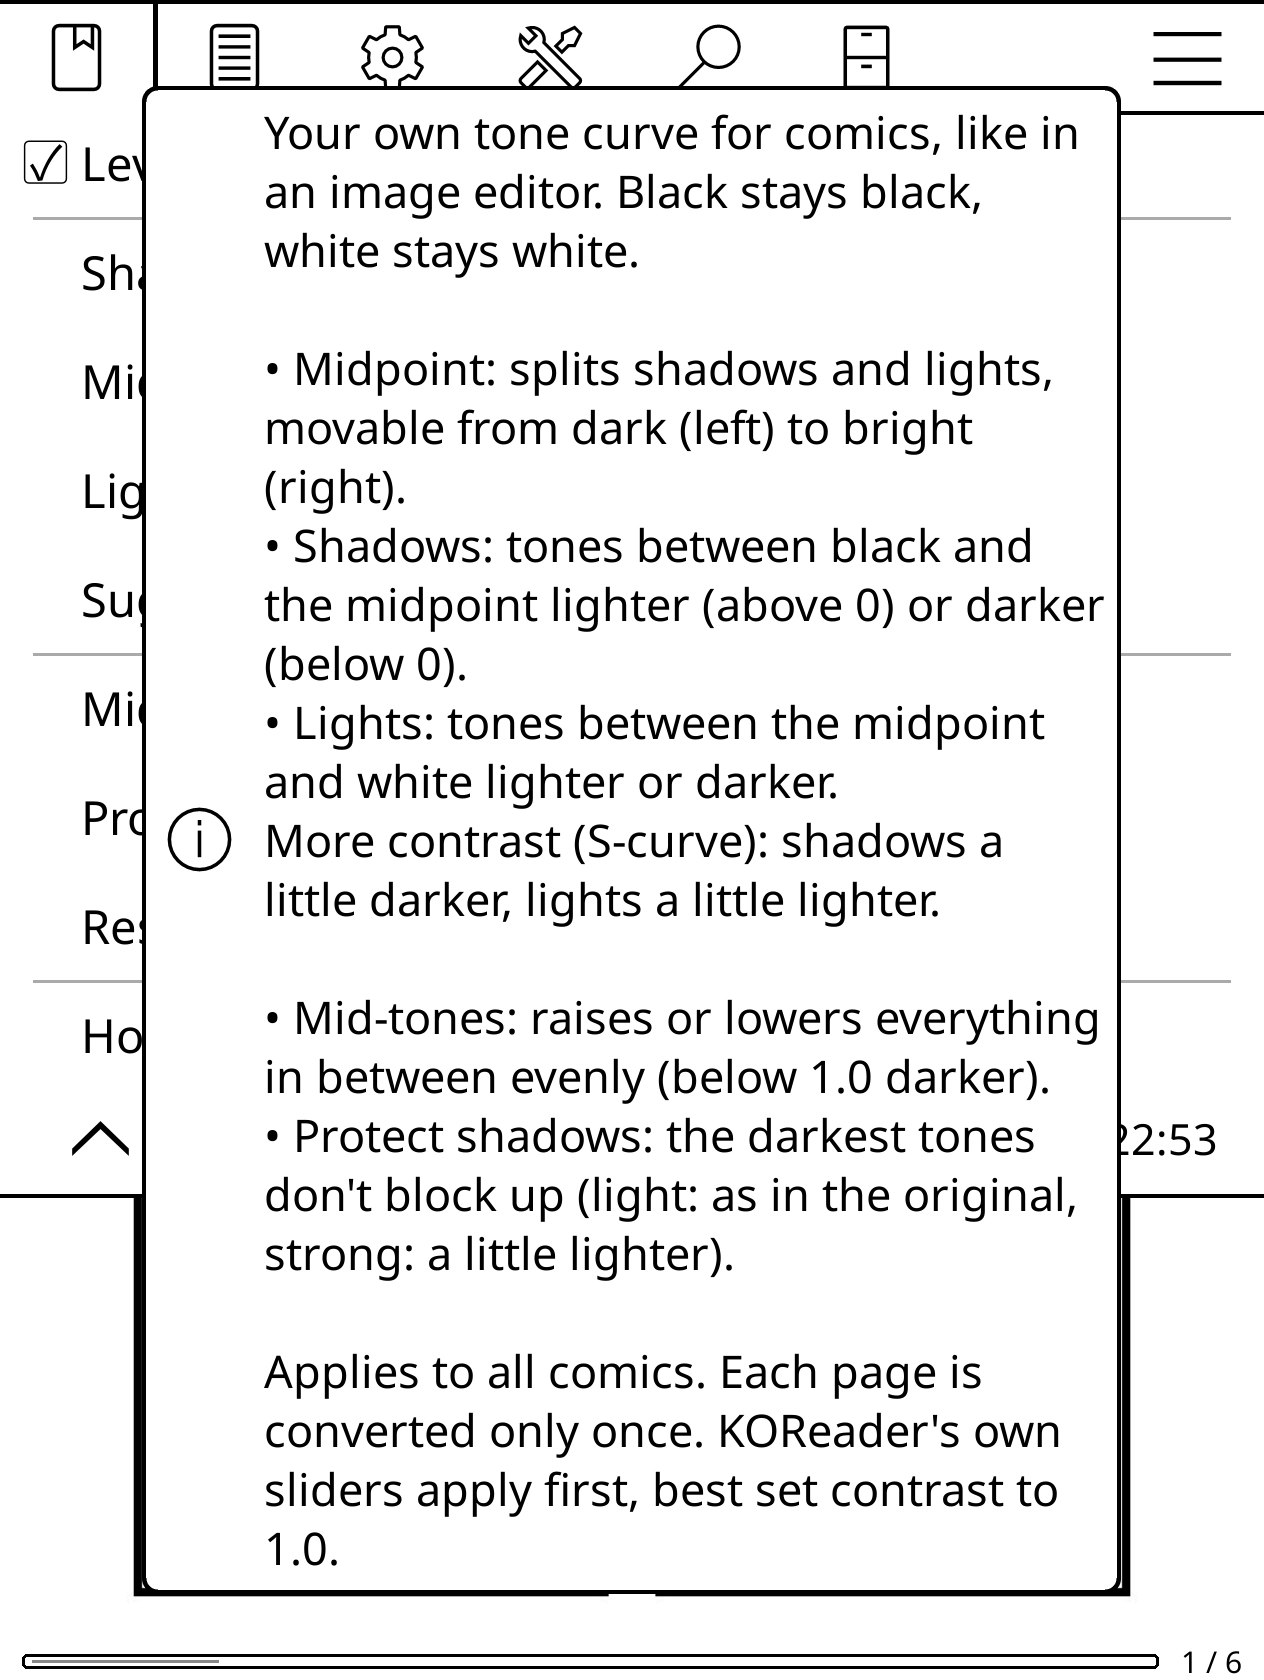
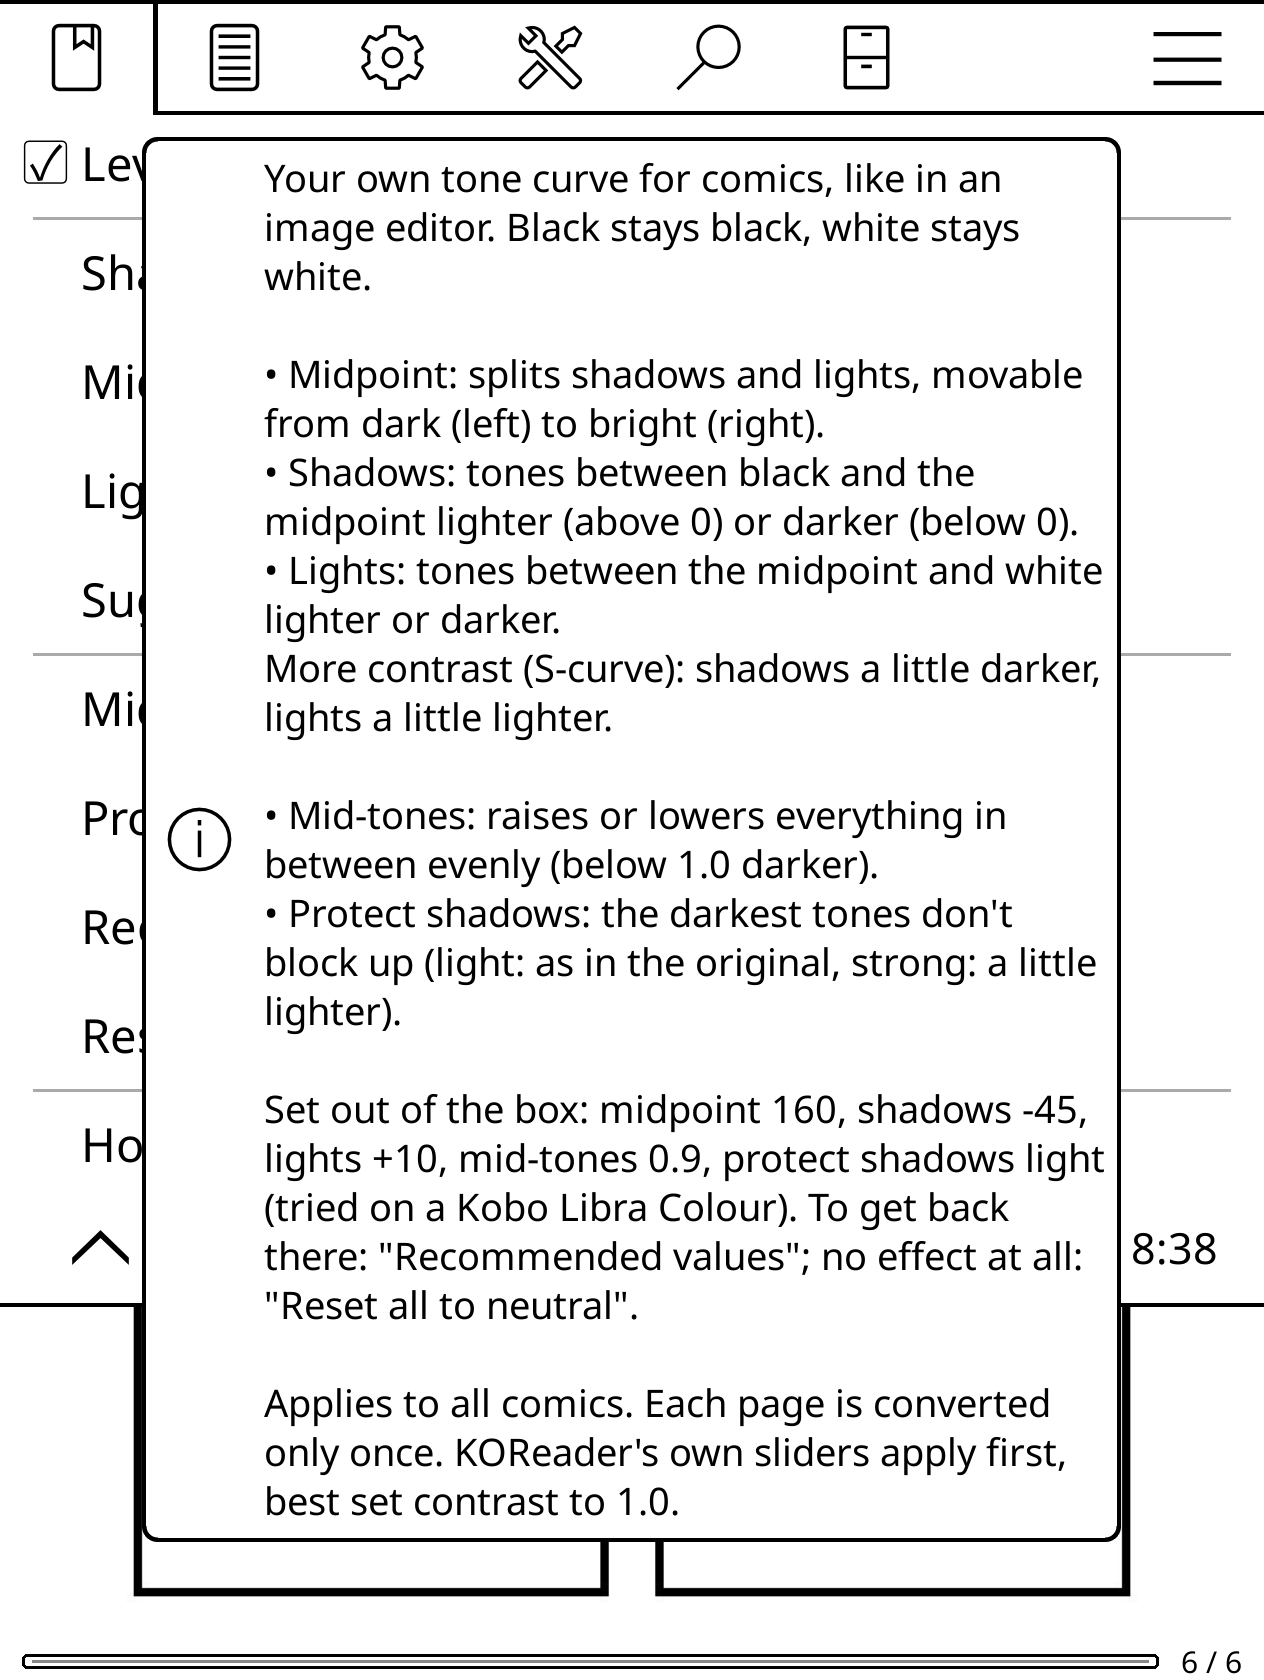
Version 0.3.0: neue Standardwerte und Menüpunkt Empfohlene Werte

diff --git a/README.de.md b/README.de.md
@@ -2,9 +2,6 @@
 
 *English: [README.md](README.md)*
 
-<!-- byline -->
-Ein Plugin von **Akrota und Claude**.
-
 <!-- lang-note -->
 *Funktioniert auf **Deutsch und Englisch**: Menüs und Texte richten sich nach der KOReader-Sprache.*
 
@@ -24,15 +21,20 @@ Ein KOReader-Plugin mit einer eigenen Tonwertkurve für Comics, wie in einer Bil
 <tr><td align="center" valign="top" width="33%"><img src="docs/screenshots/menu.png" width="260" alt="Tonwerte-Menü: Schatten, Mittelpunkt, Lichter, Mitteltöne"><br><sub>Tonwerte-Menü: Schatten, Mittelpunkt, Lichter, Mitteltöne</sub></td><td align="center" valign="top" width="33%"><img src="docs/screenshots/protect-shadows.png" width="260" alt="Schatten schützen: aus, leicht, stark"><br><sub>Schatten schützen: aus, leicht, stark</sub></td><td align="center" valign="top" width="33%"><img src="docs/screenshots/how-it-works.png" width="260" alt="Hilfetext zu Mittelpunkt, Schatten, Lichtern, Mitteltönen"><br><sub>Hilfetext zu Mittelpunkt, Schatten, Lichtern, Mitteltönen</sub></td></tr>
 </table>
 
+## Sofort einsatzbereit
+
+Das Plugin kommt mit Werten, die auf einem Kobo Libra Colour erprobt sind und dem Besitzer gefallen: **Mittelpunkt 160, Schatten -45, Lichter +10, Mitteltöne 0,9, Schatten schützen leicht**. Sie wirken gleich nach der Installation. Bildschirme unterscheiden sich, also nach Geschmack anpassen, oder „Alles auf neutral“ wählen, dann wirkt nichts.
+
 ## Funktionen
 
-- **Mittelpunkt** (30 bis 225, Standard 128): trennt Schatten und Lichter. Der Mittelpunkt selbst behält seine Helligkeit.
+- **Mittelpunkt** (30 bis 225, Standard 160): trennt Schatten und Lichter. Der Mittelpunkt selbst behält seine Helligkeit.
 - **Schatten** (-100 bis +100): hebt die Töne zwischen Schwarz und Mittelpunkt an (über 0) oder senkt sie ab (unter 0).
 - **Lichter** (-100 bis +100): hebt die Töne zwischen Mittelpunkt und Weiß an oder senkt sie ab.
 - **S-Kurve vorschlagen (mehr Kontrast):** ein Tipp stellt Schatten -30, Lichter +30 und Mittelpunkt 128 ein.
-- **Mitteltöne** (0,5 bis 1,6, Standard 1,0): hebt oder senkt alles dazwischen gleichmäßig (unter 1,0 dunkler).
+- **Mitteltöne** (0,5 bis 1,6, Standard 0,9): hebt oder senkt alles dazwischen gleichmäßig (unter 1,0 dunkler).
 - **Schatten schützen** (aus / leicht / stark): die dunkelsten Töne laufen nicht zu.
 - **An/Aus-Schalter** und eine **Geste** „Tonwerte an/aus“ zum schnellen Vergleichen.
+- **Empfohlene Werte (Standard):** zurück zu den Werten, mit denen das Plugin ausgeliefert wird.
 - **Alles auf neutral.**
 - Die Einstellungen gelten für alle Comics gleich (nicht pro Comic), damit die Seiten nicht unterschiedlich aussehen.
 
@@ -80,7 +82,7 @@ Den Code hat vollständig **Claude** geschrieben, eine KI von Anthropic (in Clau
 
 Keine Gewährleistung und kein garantierter Support. Fehlermeldungen gern als [Issue](../../issues). Bitte `crash.log` aus dem KOReader-Ordner anhängen.
 
-## Weitere Plugins von Akrota und Claude
+## Weitere Plugins
 
 - [Comic Display](https://github.com/Akrota/koreader-comic-display): Refresh gegen Ghosting, dunkle Ränder und Uhr für Comics
 - [Comic Panel Zoom](https://github.com/Akrota/koreader-comic-panel-zoom): Panel-für-Panel-Ansicht (Fork von JorgeTheFox)

diff --git a/README.md b/README.md
@@ -2,9 +2,6 @@
 
 *Deutsch: [README.de.md](README.de.md)*
 
-<!-- byline -->
-A plugin by **Akrota and Claude**.
-
 <!-- lang-note -->
 *Works in **English and German**: menus and texts follow KOReader's language. A German description is at the bottom of this page.*
 
@@ -24,15 +21,20 @@ A KOReader plugin with your own tone curve for comics, like in an image editor. 
 <tr><td align="center" valign="top" width="33%"><img src="docs/screenshots/menu.png" width="260" alt="Levels menu: shadows, midpoint, lights, mid-tones"><br><sub>Levels menu: shadows, midpoint, lights, mid-tones</sub></td><td align="center" valign="top" width="33%"><img src="docs/screenshots/protect-shadows.png" width="260" alt="Protect shadows: off, light, strong"><br><sub>Protect shadows: off, light, strong</sub></td><td align="center" valign="top" width="33%"><img src="docs/screenshots/how-it-works.png" width="260" alt="Help text for midpoint, shadows, lights, mid-tones"><br><sub>Help text for midpoint, shadows, lights, mid-tones</sub></td></tr>
 </table>
 
+## Ready to use
+
+The plugin ships with settings that the owner tried on a Kobo Libra Colour and likes: **midpoint 160, shadows -45, lights +10, mid-tones 0.9, protect shadows light**. They apply as soon as the plugin is installed. Screens differ, so adjust them to taste, or choose "Reset all to neutral" for no effect.
+
 ## Features
 
-- **Midpoint** (30 to 225, default 128): splits shadows and lights. The midpoint itself keeps its brightness.
+- **Midpoint** (30 to 225, default 160): splits shadows and lights. The midpoint itself keeps its brightness.
 - **Shadows** (-100 to +100): lightens (above 0) or darkens (below 0) the tones between black and the midpoint.
 - **Lights** (-100 to +100): lightens or darkens the tones between the midpoint and white.
 - **Suggest an S-curve (more contrast):** one tap sets shadows -30, lights +30, midpoint 128.
-- **Mid-tones** (0.5 to 1.6, default 1.0): lightens or darkens everything in between evenly (below 1.0 darker).
+- **Mid-tones** (0.5 to 1.6, default 0.9): lightens or darkens everything in between evenly (below 1.0 darker).
 - **Protect shadows** (off / light / strong): the darkest tones don't block up.
 - **On/off switch** and a **gesture** "Levels on/off" for a quick before/after comparison.
+- **Recommended values (default):** back to the values the plugin ships with.
 - **Reset all to neutral.**
 - The settings apply to all comics alike (not per comic), so pages don't look different from each other.
 
@@ -80,7 +82,7 @@ The code was written entirely by **Claude**, an AI by Anthropic (in Claude Code)
 
 There is no warranty and no guaranteed support. Bug reports are welcome as [issues](../../issues). Please attach `crash.log` from the KOReader folder.
 
-## More plugins by Akrota and Claude
+## More plugins
 
 - [Comic Display](https://github.com/Akrota/koreader-comic-display): Refresh against ghosting, dark borders and a clock for comics
 - [Comic Panel Zoom](https://github.com/Akrota/koreader-comic-panel-zoom): Panel-by-panel view (fork of JorgeTheFox's plugin)

diff --git a/CHANGELOG.md b/CHANGELOG.md
@@ -1,5 +1,9 @@
 # Tonwerte – Änderungen
 
+## 0.3.0 (25.11.2026)
+
+- **Neue Standardwerte:** Mittelpunkt 160, Schatten -45, Lichter +10, Mitteltöne 0,9, Schatten schützen leicht (auf einem Kobo Libra Colour erprobt). Neuer Menüpunkt „Empfohlene Werte (Standard)“. „Alles auf neutral“ bleibt. Wer schon eigene Werte gespeichert hat, behält sie.
+
 ## 0.2.0 (Prototyp mit Kurve)
 
 - **Kurve statt Schwarz-/Weißpunkt:** Schwarz bleibt Schwarz, Weiß bleibt Weiß. Der **Mittelpunkt** (30 bis 225, Standard 128) ist verschiebbar und behält seine Helligkeit. **Schatten** (-100 bis +100) biegen den Abschnitt Schwarz bis Mittelpunkt, **Lichter** (-100 bis +100) den Abschnitt Mittelpunkt bis Weiß. Die Kurve bleibt dabei immer steigend.
